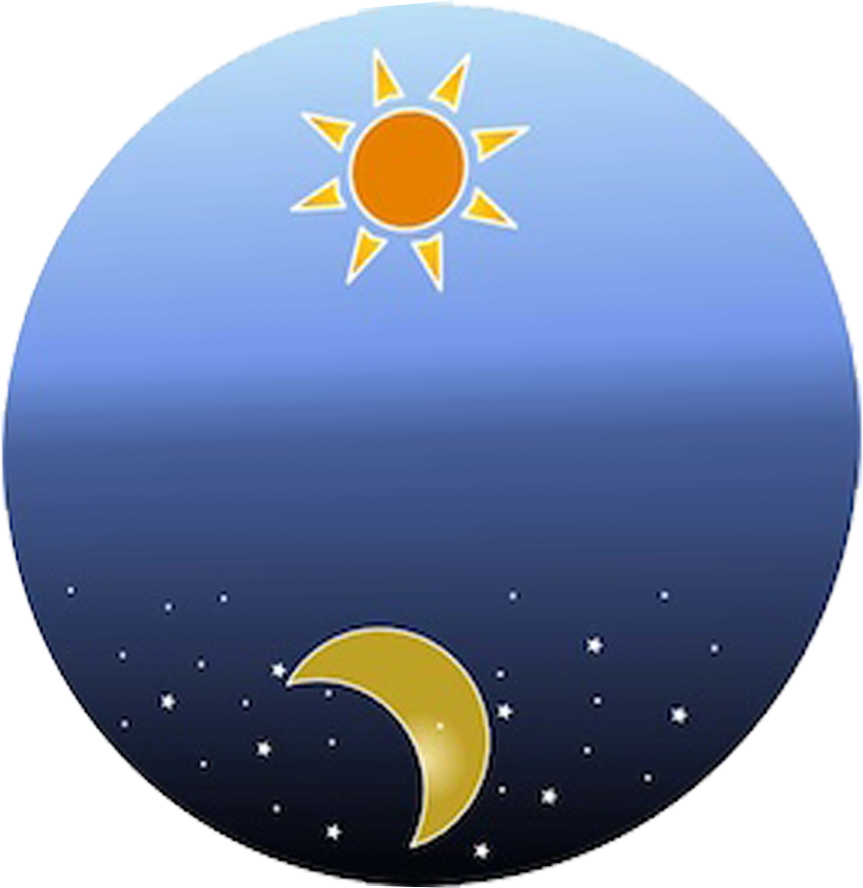
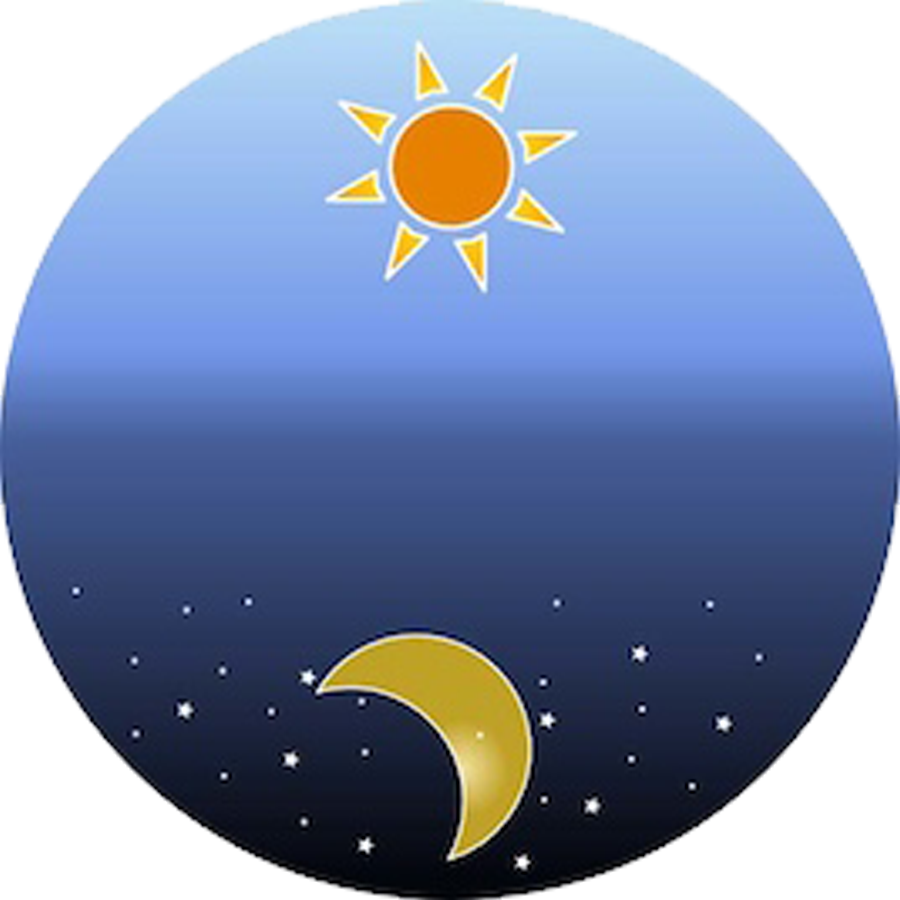
Background fixed. Goals added. Score added.

diff --git a/js/physics_aux.js b/js/physics_aux.js
@@ -121,11 +121,11 @@ function CreateWorld (ctx, gravity)
 
     // create the surface (an static object)
     // left wall
-    CreateBox(world, 0, 1, .1, 8, {type : b2Body.b2_staticBody});
+    //CreateBox(world, 0, 1, .1, 8, {type : b2Body.b2_staticBody});
     // down wall
     CreateBox(world, 4, 0, 4, .1, {type : b2Body.b2_staticBody});
     // right wall
-    CreateBox(world, 8, 1, .1, 8, {type : b2Body.b2_staticBody});
+
     // up wall
     //CreateBox(world, 4, 8, 4, .1, {type : b2Body.b2_staticBody});
 
@@ -144,24 +144,24 @@ function OnContactDetected (contact)
         typeof(a.type) !== 'undefined' &&
         typeof(b.type) !== 'undefined'){
         console.log("Contacto! " + a.type + " + " + b.type);
-        if((a.type == "player1" && b.type == "coin") ||
-            (b.type == "player1" && a.type == "coin")){
+        if((a.type == "goalR" && b.type == "coin") ||
+            (b.type == "goalR" && a.type == "coin")){
 
-            //Collect
-            console.log("Contacto! " + a.type + " + " + b.type);
-            var coin = (a.type == "coin") ? a : b;
-            player1.score += coin.score;
-
-            //Delete
-            //coin.toDelete = true;
-        }
-        
-        if((a.type == "player2" && b.type == "coin") ||
-            (b.type == "player2" && a.type == "coin")){
             //Collect
             console.log("Contacto! " + a.type + " + " + b.type);
             var coin = (a.type == "coin") ? a : b;
             player2.score += coin.score;
+            ResetGame(coin);
+            //Delete
+            //coin.toDelete = true;
+        }
+        
+        if((a.type == "goalL" && b.type == "coin") ||
+            (b.type == "goalR" && a.type == "coin")){
+            //Collect
+            console.log("Contacto! " + a.type + " + " + b.type);
+            var coin = (a.type == "coin") ? a : b;
+            player1.score += coin.score;
 
             //Delete
             //coin.toDelete = true;
@@ -179,3 +179,10 @@ function PreparePhysics (ctx)
     b2ContactListener.prototype.BeginContact = OnContactDetected;
 }
 
+
+function ResetGame (coin)
+{
+    coin.position.x = 400;
+    coin.position.y = 160;
+    
+}

diff --git a/js/code.js b/js/code.js
@@ -13,9 +13,9 @@ var time = 0,
     acumDelta = 0;
 
 //images references
-var player1Img, player2Img, coinImg, floorImg, background1Img, background2Img;
+var player1Img, player2Img, coinImg, floorImg, background1Img, background2Img, goalImg;
 
-var player1, player2, floor, background1, background2;
+var player1, player2, floor, background1, background2, goalL, goalR;
 
 
 var coins = [];
@@ -45,6 +45,9 @@ function Init ()
         background2Img = new Image();
         background2Img.src = "./media/background2.png";
         
+        goalImg = new Image();
+        goalImg.src = "./media/goal.png";
+        
         coinImg = new Image();
         coinImg.src = "./media/coin.png";
 
@@ -72,8 +75,14 @@ function Start(){
 
 
     PreparePhysics(ctx);
-this.background1 = NewBackground({x: 0, y:0, width:863, height:888, img: background1Img, type: 'background1'});
+this.background1 = NewBackground({x: 0, y:0, width:900, height:900, img: background1Img, type: 'background1'});
     this.background2 = NewBackground({x: 0, y: 0, width:800, height:450, img: background2Img, type: 'background2'});
+    
+    this.goalL = NewGoal({x: 670, y: 200, width: 167, height: 306, img: goalImg, type: 'goalL'});
+    this.goalL.Start();
+     this.goalR = NewGoal({x: -130, y: 200, width: 167, height: 306, img: goalImg, type: 'goalR'});
+    this.goalR.Start();
+    
 //this.background1.Start();
     
     this.floor = NewFloor({x: 300, y: 20, width: 5.0, height: 0.2})
@@ -82,7 +91,7 @@ this.background1 = NewBackground({x: 0, y:0, width:863, height:888, img: backgro
 
     //player.Start();
 
-    var coin = NewCoin({x: 300, y: 160, score: 50});
+    var coin = NewCoin({x: 300, y: 160, score: 1});
     coin.Start();
     coins.push(coin);
 
@@ -201,9 +210,12 @@ function Draw ()
     background1.Draw(ctx);
     
     ctx.drawImage(background2.img, 0, 0, background2.width, background2.height);
+    //ctx.drawImage(goalImg, 0, 0, goalImg.width, goalImg.height,  );
     //background2.Draw(ctx);
     ctx.restore();
 
+    goalL.Draw(ctx);
+    goalR.Draw(ctx);
     floor.Draw(ctx);
     //Draw the player
     player1.Draw(ctx);

diff --git a/js/goal.js b/js/goal.js
@@ -1,0 +1,46 @@
+function NewGoal (options) {
+	return {
+		type: options.type,
+		width: options.width,
+		height: options.height,
+		position: {x: options.x, y: options.y},
+		imgScale: 1,
+		img: options.img,
+
+		physicsInfo: {
+			density: 10,
+			fixedRotation: true,
+			type: b2Body.b2_staticBody
+		},
+
+		body: null,
+
+		Start: function(){
+			this.body = CreateBox(world, this.position.x /scale+1.25, this.position.y / scale-0.75,
+			0.75, 1, this.physicsInfo);
+			this.body.SetUserData(this);
+		},
+
+		Update: function(deltaTime){
+			
+		},
+
+		Draw: function(ctx){
+			
+			
+			ctx.save();
+			
+			ctx.scale(this.imgScale, this.imgScale);
+            if(this.type == 'goalR'){
+                ctx.scale(-1, 1);
+            }
+			
+			ctx.drawImage(this.img,
+				this.position.x,
+				this.position.y,
+				this.width, this.height);
+			ctx.restore();
+           
+		}
+	}
+}

diff --git a/js/backgrounds.js b/js/backgrounds.js
@@ -10,17 +10,17 @@ function NewBackground (options) {
         
 		Update: function(deltaTime){
 			if(this.type == 'background1'){
-                this.angle = (this.angle + 1) % 360;
+                this.angle = (this.angle - 0.05) % 360;
             }
 		},
 
 		Draw: function(ctx){
             ctx.save();
-            //ctx.translate(450, 225);
-           // ctx.translate(450, 225);
+            ctx.translate(400, 218);
+            //ctx.translate(0,0);
             ctx.rotate(this.angle * Math.PI /180);
-            ctx.translate(-450, -225);
-			ctx.drawImage(this.img, 0, 0, this.width, this.height, -31.5, -219, this.width, this.height);
+            ctx.translate(-400, -225);
+			ctx.drawImage(this.img, 0, 0, this.width, this.height, -50,-225, this.width, this.height);
             ctx.rotate(-this.angle * Math.PI /180);
 			ctx.restore();
 		},

diff --git a/index.html b/index.html
@@ -14,6 +14,7 @@
     <script src="js/coins.js"></script>
     <script src="js/floor.js"></script>
     <script src="js/backgrounds.js"></script>
+    <script src="js/goal.js"></script>
 </head>
 
 <body onload="Init();">

diff --git a/js/coins.js b/js/coins.js
@@ -6,7 +6,7 @@ function NewCoin(options) {
 		position: {x: options.x, y: options.y},
 		imgScale: 0.5,
 
-		score: options.score || 100,
+		score: options.score || 1,
 
 		toDelete: false,
 
